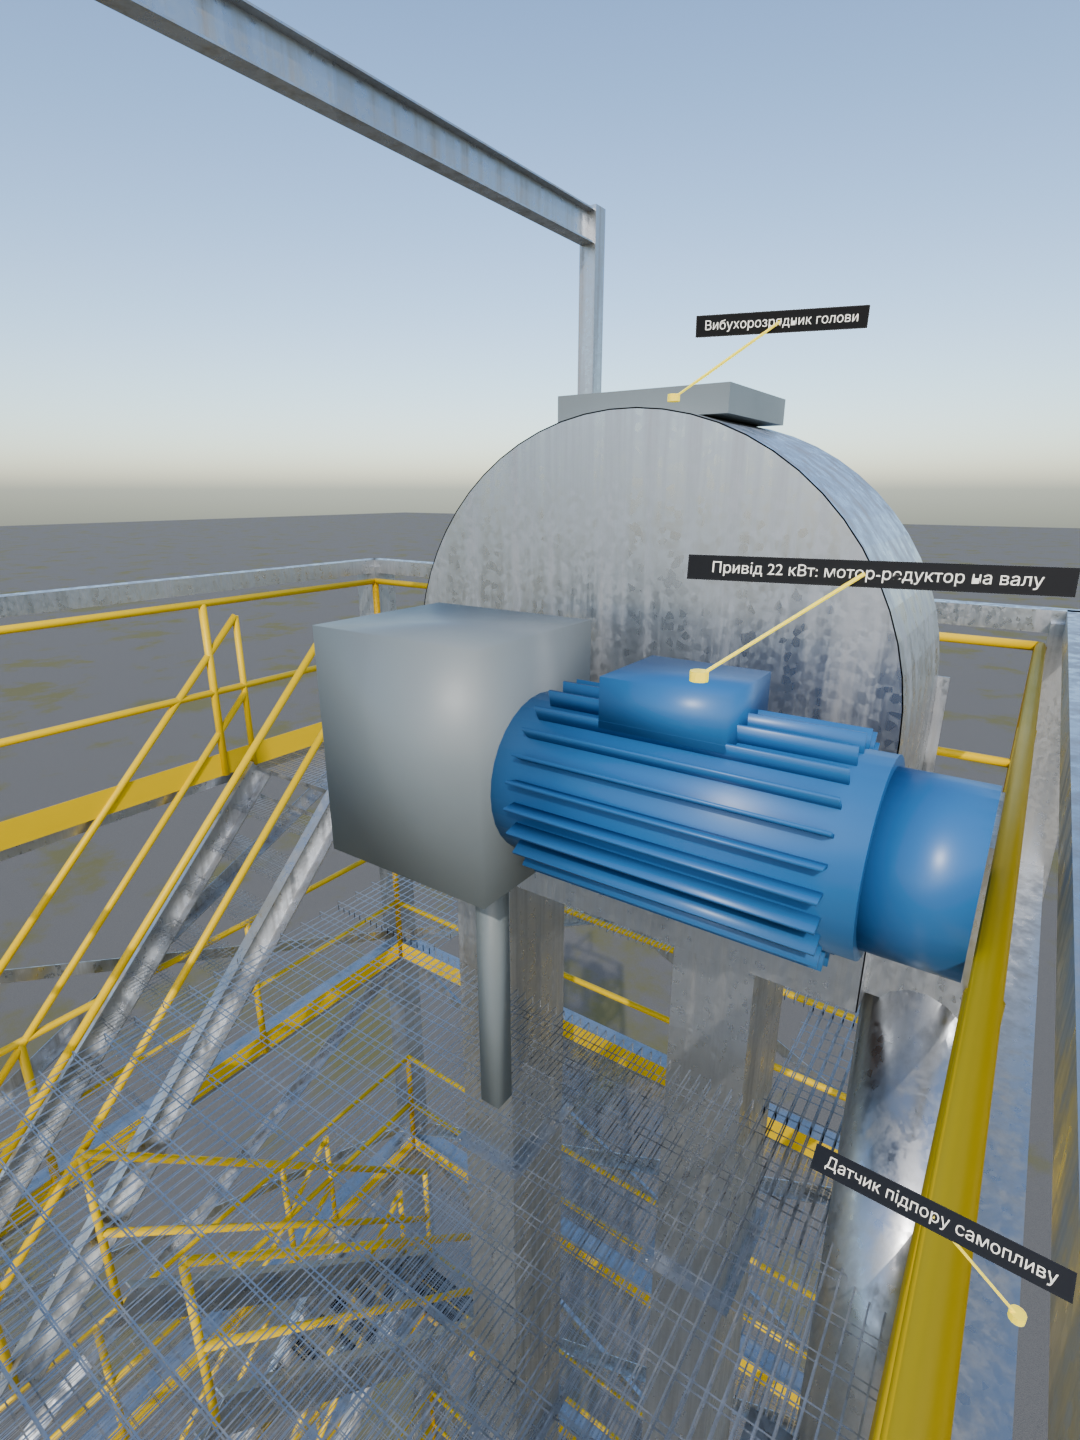
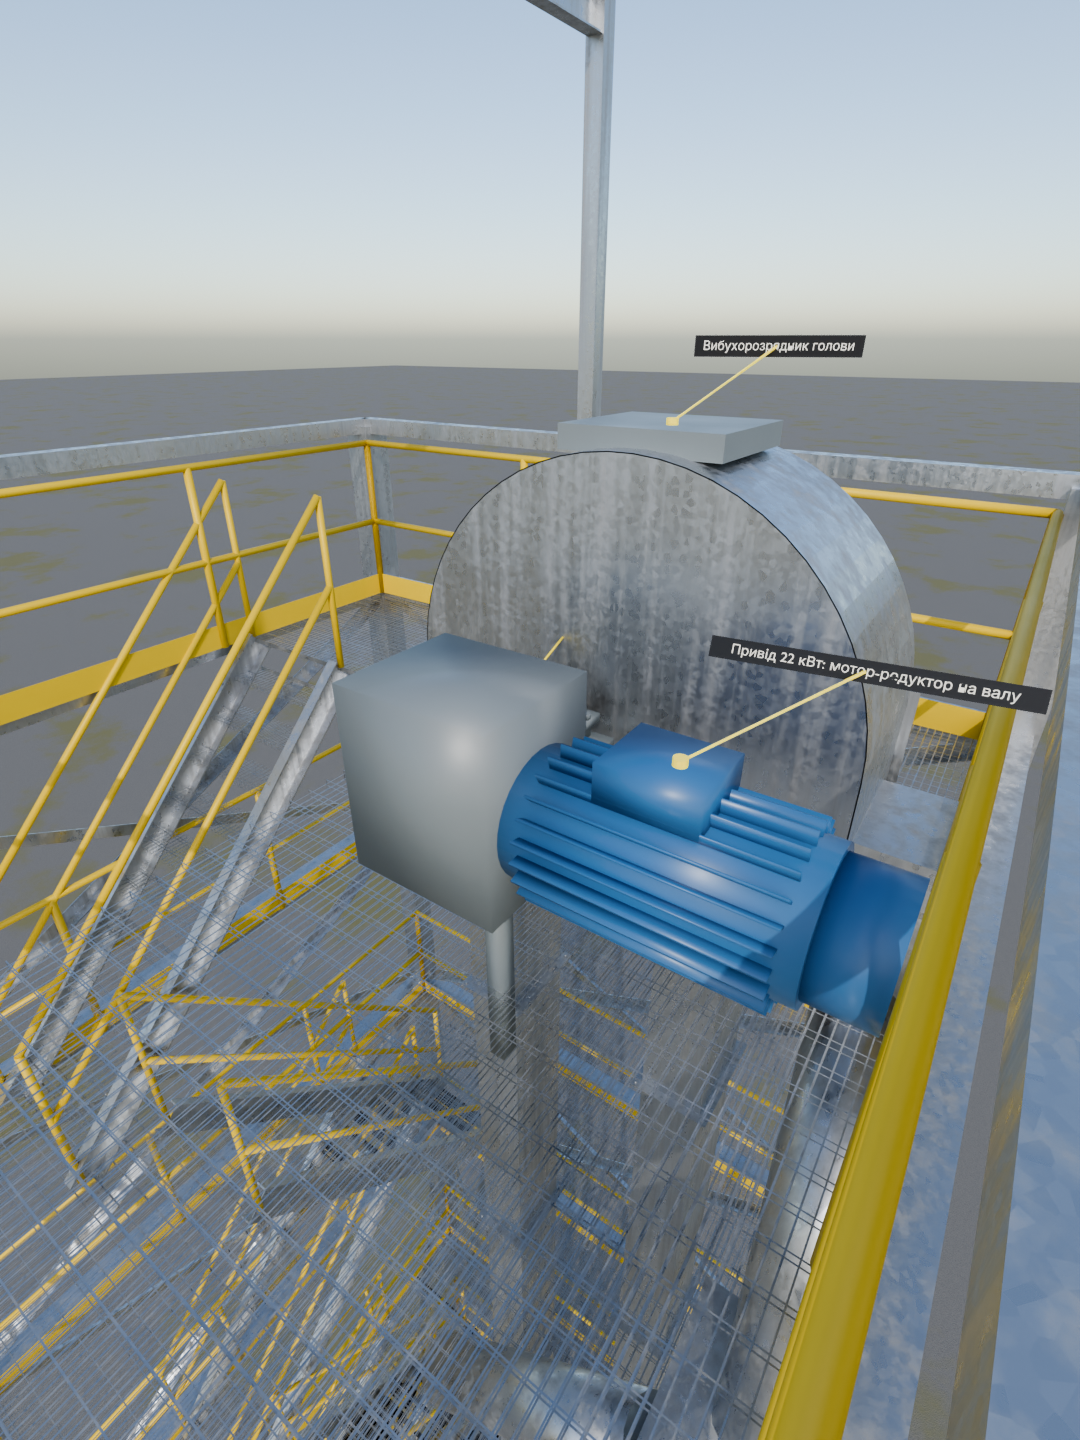
Stack norias bottom-up from spec tube lengths, check head lands on top platform
Noria height is given by the tubes (PDF p.8 note 1): H5 33000 (1st stage), H6 32500 (2nd).
The elevator is now built pit -> boot -> tube_mm -> head; the drawing's top-platform elevation
is only used as an independent check (head base -0.008 / +0.092 m). check_noria.py runs 4 cases
and rejects swapped tubes. Tower, noria and site renders refreshed.

diff --git a/world/kit/noria_n100.py b/world/kit/noria_n100.py
@@ -354,18 +354,35 @@ def _rim_bolts(x0, x1, z0, z1, y, step=0.10):
     return [st.member((px, y, pz), (px, y + 0.0064, pz), hexp, up=(0, 0, 1)) for px, pz in pts]
 
 
-def build(top_z, pit_z, phase=0.0):
-    """Returns dict of parts (verts, faces) keyed by role, plus label anchors and measure."""
+BOOT_ABOVE_AXIS = 0.70              # boot housing top above the tail pulley axis, EST
+HEAD_BELOW_AXIS = 0.75              # head housing base below the head pulley axis, EST
+# head base vs top platform: the head stands on its support beams (<= 0.3 m, EST) on the platform;
+# the tower has nothing to carry it between the platform and the +1.2 frame
+HEAD_BASE_TOLERANCE = (-0.05, 0.30)
+
+
+def build(top_z, pit_z, tube_len, phase=0.0):
+    """Stack the elevator bottom-up: pit (drawing) -> boot -> legs of tube_len (spec "Нтруб",
+    PDF p.8 note 1: noria heights are given by the tubes) -> head.
+
+    top_z (tower top platform, drawing) is not used to place anything: it is the independent
+    check. Raises ValueError when the head base misses the top platform.
+    Returns dict of parts (verts, faces) keyed by role, plus label anchors and measure.
+    """
     z_boot = pit_z + 0.25 + 0.35 + BELT_R          # boot floor + clearance under the tail pulley
-    z_head = top_z + 1.20
+    leg_z0 = z_boot + BOOT_ABOVE_AXIS
+    leg_z1 = leg_z0 + tube_len
+    z_head = leg_z1 + HEAD_BELOW_AXIS
+    head_base = leg_z1 - top_z
+    if not HEAD_BASE_TOLERANCE[0] <= head_base <= HEAD_BASE_TOLERANCE[1]:
+        raise ValueError(f"noria head base {head_base:+.3f} m from the top platform +{top_z}: "
+                         f"tube {tube_len} m and pit {pit_z} m do not fit this tower")
     path = BeltPath(z_boot, z_head)
     parts, labels = {}, []
 
     parts["belt"] = build_belt(path)
     parts["buckets"], parts["grain"], n_buckets = build_buckets(path, phase)
 
-    leg_z0 = z_boot + 0.70
-    leg_z1 = z_head - 0.75
     parts["legs"], parts["leg_flanges"], parts["leg_bolts"], parts["leg_doors"] = build_legs(leg_z0, leg_z1)
 
     # ---- head: housing with hood, front cover, pulley, discharge throat and spout
@@ -474,7 +491,8 @@ def build(top_z, pit_z, phase=0.0):
         "bucket_volume_l_model": round(bucket_volume_l(), 2),
         "bucket_mm": [round(1000 * BUCKET_W), 180, round(1000 * BUCKET_DEPTH)],
         "belt_width_mm": round(1000 * BELT_W),
-        "leg_length_m": round((z_head - 0.75) - (z_boot + 0.70), 2),
+        "leg_length_m": round(leg_z1 - leg_z0, 3),
+        "head_base_above_top_platform_m": round(head_base, 3),
         "bucket_wall_mm": 6.5,
         "bucket_bolts": "4 x M8 DIN 15237, 74 mm pitch",
         "bucket_pitch_m": BUCKET_PITCH,

diff --git a/world/build/check_noria.py b/world/build/check_noria.py
@@ -1,0 +1,49 @@
+"""Noria height check: the spec tubes must fit both towers, swapped tubes must be rejected.
+
+The pit and top-platform elevations come from the drawing sections, the tube lengths from the
+specification (PDF p.8, p.10). The elevator is stacked bottom-up from the pit, so the head landing
+on the top platform is an independent cross-check of the two sources.
+
+Run:
+    blender --background --python world/build/check_noria.py
+Exit code 1 when any case fails.
+"""
+
+import json
+import sys
+from pathlib import Path
+
+ROOT = Path(__file__).resolve().parents[1]
+sys.path.insert(0, str(ROOT))
+
+from kit import noria_n100 as nn  # noqa: E402
+
+
+def run(tower, tube_mm, expect_ok):
+    try:
+        _, _, m, _ = nn.build(tower["top_z"], tower["pit_z"], tube_mm / 1000)
+        ok = True
+        info = (f"tube {m['leg_length_m']} m, head axis +{m['head_pulley_z_m']}, "
+                f"head base {m['head_base_above_top_platform_m']:+.3f} m vs top +{tower['top_z']}")
+    except ValueError as e:
+        ok, info = False, str(e)
+    passed = ok == expect_ok
+    print(f"{'PASS' if passed else 'FAIL'}  {tower['id']} tube {tube_mm} "
+          f"({'must fit' if expect_ok else 'must be rejected'}): {info}", flush=True)
+    return passed
+
+
+def main():
+    site = json.loads((ROOT / "site" / "SITE.json").read_text(encoding="utf-8"))
+    towers = site["noria_towers"]
+    results = [run(t, t["tube_mm"], True) for t in towers]
+    tubes = [t["tube_mm"] for t in towers]
+    for t, other in zip(towers, tubes[::-1]):
+        if other != t["tube_mm"]:
+            results.append(run(t, other, False))
+    print("RESULT", "ALL PASS" if all(results) else f"{results.count(False)} FAILED", flush=True)
+    sys.exit(0 if all(results) else 1)
+
+
+if __name__ == "__main__":
+    main()

diff --git a/world/kit/noria_tower.py b/world/kit/noria_tower.py
@@ -172,7 +172,7 @@ def build(spec, collection=None, materials=None):
     bucket = m.get("bucket") or c.mat_painted("BUCKET_POLY", (0.85, 0.32, 0.04), 0.45, grime=0.3)
     grain = m.get("grain") or c.mat_painted("GRAIN_WHEAT", (0.62, 0.44, 0.20), 0.8, grime=0.2)
     sensor = m.get("sensor") or c.mat_painted("SENSOR_YELLOW", (0.9, 0.7, 0.05), 0.4, grime=0.1)
-    parts, labels, noria_measure, anchors = nn.build(top_z, pit_z)
+    parts, labels, noria_measure, anchors = nn.build(top_z, pit_z, spec["tube_mm"] / 1000)
     look = {
         "belt": (rubber, False), "buckets": (bucket, "quads"), "grain": (grain, False),
         "legs": (galv, False), "leg_flanges": (galv_old, False), "leg_bolts": (galv_old, "quads"),

diff --git a/OBJECT_SCOPE.md b/OBJECT_SCOPE.md
@@ -42,7 +42,7 @@
 |---|---|---|
 | Каркас вежі 4.4 × 4.4, майданчики, сходи | ✅ | `world/kit/noria_tower.py` |
 | Норія УН-175: барабани Ø750, стрічка 300 мм 2.87 м/с, 344 ковші 7.75 л з кроком 210, привід 22 кВт, датчики | ✅ | `world/kit/noria_n100.py`, оновлено 2026-09-25 за `research/lubnymash_equipment.md`; габарити голови й башмака — аналоги |
-| Різна висота: H5 33 000, H6 32 500 | ✗ | зараз обидві однакові |
+| Різна висота: H5 33 000, H6 32 500 | ✅ | 2026-09-25: норія будується знизу вгору (приямок → башмак → труба `tube_mm` → голова); голова лягає на верхній майданчик вежі з точністю −0.008 / +0.092 м. Перевірка: `world/build/check_noria.py` (4 випадки, поміняні труби відкидаються) |
 | Завантаження на холосту гілку | ? | перевірити в коді |
 | Башмак з аспіраційним патрубком 350 × 350 | ◐ | башмак є, патрубка немає |
 | Приямок −4.7 / −5.1 | ◐ | є в розмірах, бетонного приямку як вузла немає |
